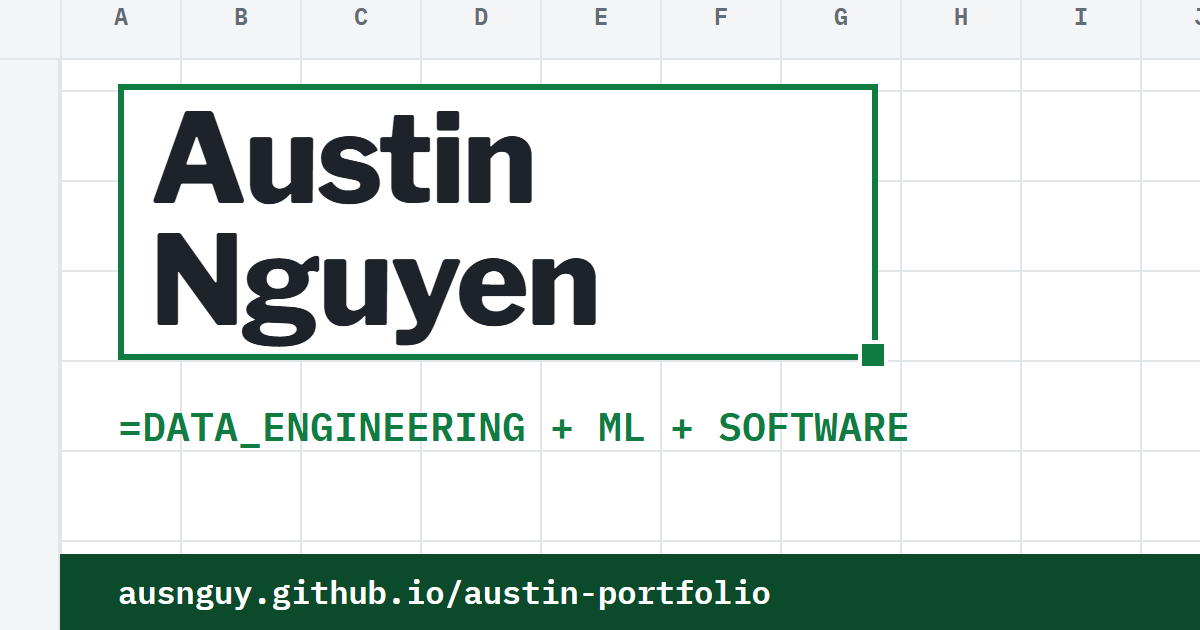
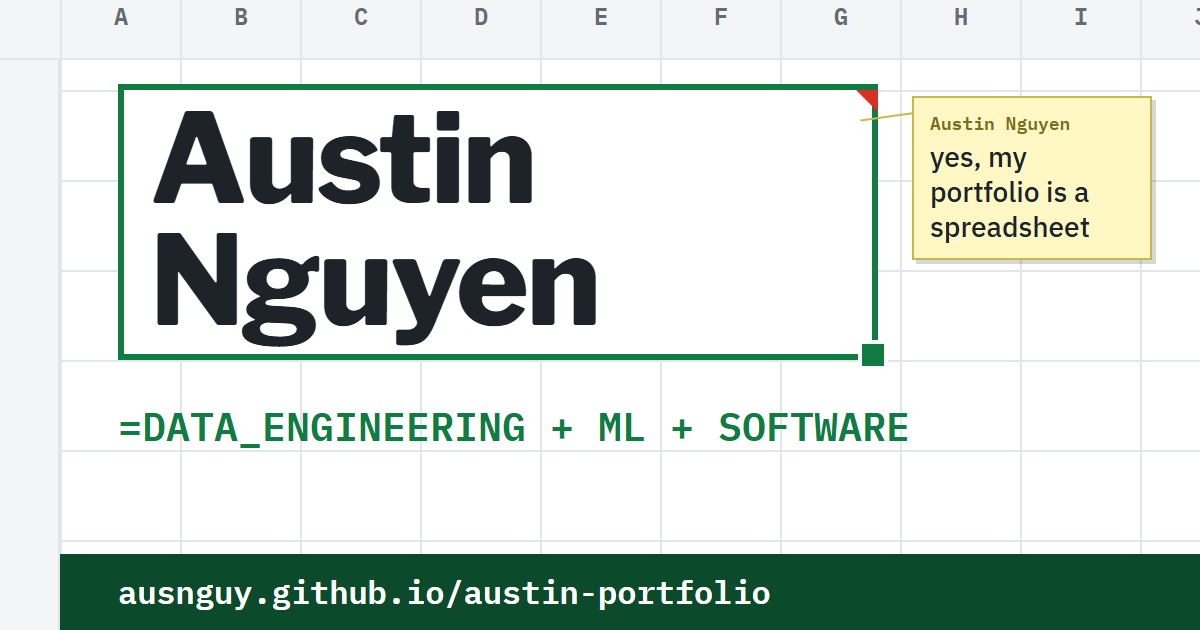
Link preview: spreadsheet cell comment; keep the plain version in tools/social

Changed region(s): [[0.7092, 0.1206, 0.9867, 0.4222]]

diff --git a/tools/social/og-clean.html b/tools/social/og-clean.html
@@ -1,0 +1,32 @@
+<!doctype html>
+<!-- Source for public/og.png (1200x630 link preview and LinkedIn thumbnail). Render with tools/social/render.cjs. -->
+<html lang="en">
+<head>
+<meta charset="utf-8">
+<link href="https://fonts.googleapis.com/css2?family=Libre+Franklin:wght@800&family=IBM+Plex+Mono:wght@500;600&display=swap" rel="stylesheet">
+<style>
+  * { box-sizing: border-box; margin: 0; }
+  body { width: 1200px; height: 630px; position: relative; overflow: hidden; background: #fff; color: #1D2329; font-family: 'Archivo', sans-serif; }
+  /* the site's grid: 120px columns, 90px rows */
+  .grid { position: absolute; inset: 0; background-image: linear-gradient(#E2E5E9 2px, transparent 2px), linear-gradient(90deg, #E2E5E9 2px, transparent 2px); background-size: 120px 90px; background-position: 60px 0; }
+  .cols { position: absolute; left: 0; right: 0; top: 0; height: 60px; background: #F3F5F7; border-bottom: 2px solid #E2E5E9; }
+  .cols span { position: absolute; top: 0; width: 120px; height: 60px; line-height: 60px; text-align: center; font: 600 24px 'IBM Plex Mono', monospace; color: #636B75; border-left: 2px solid #E2E5E9; }
+  .rows { position: absolute; left: 0; top: 60px; bottom: 0; width: 60px; background: #F3F5F7; border-right: 2px solid #E2E5E9; }
+  /* selected cell, like the favicon: green frame plus a fill handle */
+  .sel { position: absolute; left: 118px; top: 84px; width: 760px; height: 276px; background: #fff; border: 6px solid #107C41; }
+  .sel::after { content: ''; position: absolute; right: -16px; bottom: -16px; width: 22px; height: 22px; background: #107C41; border: 4px solid #fff; }
+  h1 { position: absolute; left: 150px; top: 98px; font-family: 'Libre Franklin', sans-serif; font-size: 124px; line-height: .98; letter-spacing: -2.5px; white-space: normal; font-weight: 800; white-space: normal; }
+  .line { position: absolute; left: 118px; top: 400px; font: 600 40px 'IBM Plex Mono', monospace; color: #107C41; white-space: nowrap; }
+  .bar { position: absolute; left: 60px; right: 0; bottom: 0; height: 76px; background: #0B4A2B; color: #fff; padding: 0 58px; display: flex; align-items: center; font: 600 32px 'IBM Plex Mono', monospace; }
+</style>
+</head>
+<body>
+  <div class="grid"></div>
+  <div class="cols"><span style="left:60px">A</span><span style="left:180px">B</span><span style="left:300px">C</span><span style="left:420px">D</span><span style="left:540px">E</span><span style="left:660px">F</span><span style="left:780px">G</span><span style="left:900px">H</span><span style="left:1020px">I</span><span style="left:1140px">J</span></div>
+  <div class="rows"></div>
+  <div class="sel"></div>
+  <h1>Austin<br>Nguyen</h1>
+  <p class="line">=DATA_ENGINEERING + ML + SOFTWARE</p>
+  <div class="bar">ausnguy.github.io/austin-portfolio</div>
+</body>
+</html>

diff --git a/tools/social/og.html b/tools/social/og.html
@@ -3,7 +3,7 @@
 <html lang="en">
 <head>
 <meta charset="utf-8">
-<link href="https://fonts.googleapis.com/css2?family=Libre+Franklin:wght@800&family=IBM+Plex+Mono:wght@500;600&display=swap" rel="stylesheet">
+<link href="https://fonts.googleapis.com/css2?family=Libre+Franklin:wght@800&family=IBM+Plex+Mono:wght@500;600&family=IBM+Plex+Sans:wght@500&display=swap" rel="stylesheet">
 <style>
   * { box-sizing: border-box; margin: 0; }
   body { width: 1200px; height: 630px; position: relative; overflow: hidden; background: #fff; color: #1D2329; font-family: 'Archivo', sans-serif; }
@@ -17,6 +17,10 @@
   .sel::after { content: ''; position: absolute; right: -16px; bottom: -16px; width: 22px; height: 22px; background: #107C41; border: 4px solid #fff; }
   h1 { position: absolute; left: 150px; top: 98px; font-family: 'Libre Franklin', sans-serif; font-size: 124px; line-height: .98; letter-spacing: -2.5px; white-space: normal; font-weight: 800; white-space: normal; }
   .line { position: absolute; left: 118px; top: 400px; font: 600 40px 'IBM Plex Mono', monospace; color: #107C41; white-space: nowrap; }
+  .tri { position: absolute; left: 856px; top: 90px; width: 0; height: 0; border-top: 22px solid #D93025; border-left: 22px solid transparent; }
+  .cmt { position: absolute; left: 912px; top: 96px; width: 240px; padding: 14px 16px; background: #FFF8C5; border: 2px solid #C9B94A; font: 500 28px/1.25 'IBM Plex Sans', sans-serif; color: #1D2329; box-shadow: 4px 4px 0 rgba(29,35,41,.18); }
+  .cmt::before { content: ''; position: absolute; left: -54px; top: 14px; width: 54px; height: 2px; background: #C9B94A; transform: rotate(-8deg); transform-origin: right center; }
+  .cmt b { display: block; margin-bottom: 4px; font: 600 18px 'IBM Plex Mono', monospace; color: #7a6d1c; }
   .bar { position: absolute; left: 60px; right: 0; bottom: 0; height: 76px; background: #0B4A2B; color: #fff; padding: 0 58px; display: flex; align-items: center; font: 600 32px 'IBM Plex Mono', monospace; }
 </style>
 </head>
@@ -27,6 +31,8 @@
   <div class="sel"></div>
   <h1>Austin<br>Nguyen</h1>
   <p class="line">=DATA_ENGINEERING + ML + SOFTWARE</p>
+  <div class="tri"></div>
+  <div class="cmt"><b>Austin Nguyen</b>yes, my portfolio is a spreadsheet</div>
   <div class="bar">ausnguy.github.io/austin-portfolio</div>
 </body>
 </html>

diff --git a/index.html b/index.html
@@ -14,12 +14,12 @@
     <meta property="og:url" content="https://ausnguy.github.io/austin-portfolio/" />
     <meta property="og:title" content="Austin Nguyen | Data systems, end to end" />
     <meta property="og:description" content="MIS at the University of Houston (3.95 GPA) and Data Analyst Intern at HPE. Pipelines, ML models, dashboards and the apps on top." />
-    <meta property="og:image" content="https://ausnguy.github.io/austin-portfolio/og.png?v=8" />
+    <meta property="og:image" content="https://ausnguy.github.io/austin-portfolio/og.png?v=9" />
     <meta property="og:image:width" content="1200" />
     <meta property="og:image:height" content="630" />
     <meta property="og:image:alt" content="Austin Nguyen: I ship data systems end to end. 8.7K events per second, 90 of 91 failures flagged, 3.95 GPA. Shows the Interdomain and Parvius projects." />
     <meta name="twitter:card" content="summary_large_image" />
-    <meta name="twitter:image" content="https://ausnguy.github.io/austin-portfolio/og.png?v=8" />
+    <meta name="twitter:image" content="https://ausnguy.github.io/austin-portfolio/og.png?v=9" />
     <meta name="description" content="Austin Nguyen builds data systems end to end: pipelines, ML models, dashboards and the apps on top. Projects, experience, and a local AI you can ask about Austin." />
     <script>
       // Light by default; dark only if the visitor chose it with the toggle. Runs before first paint so there is no flash.
